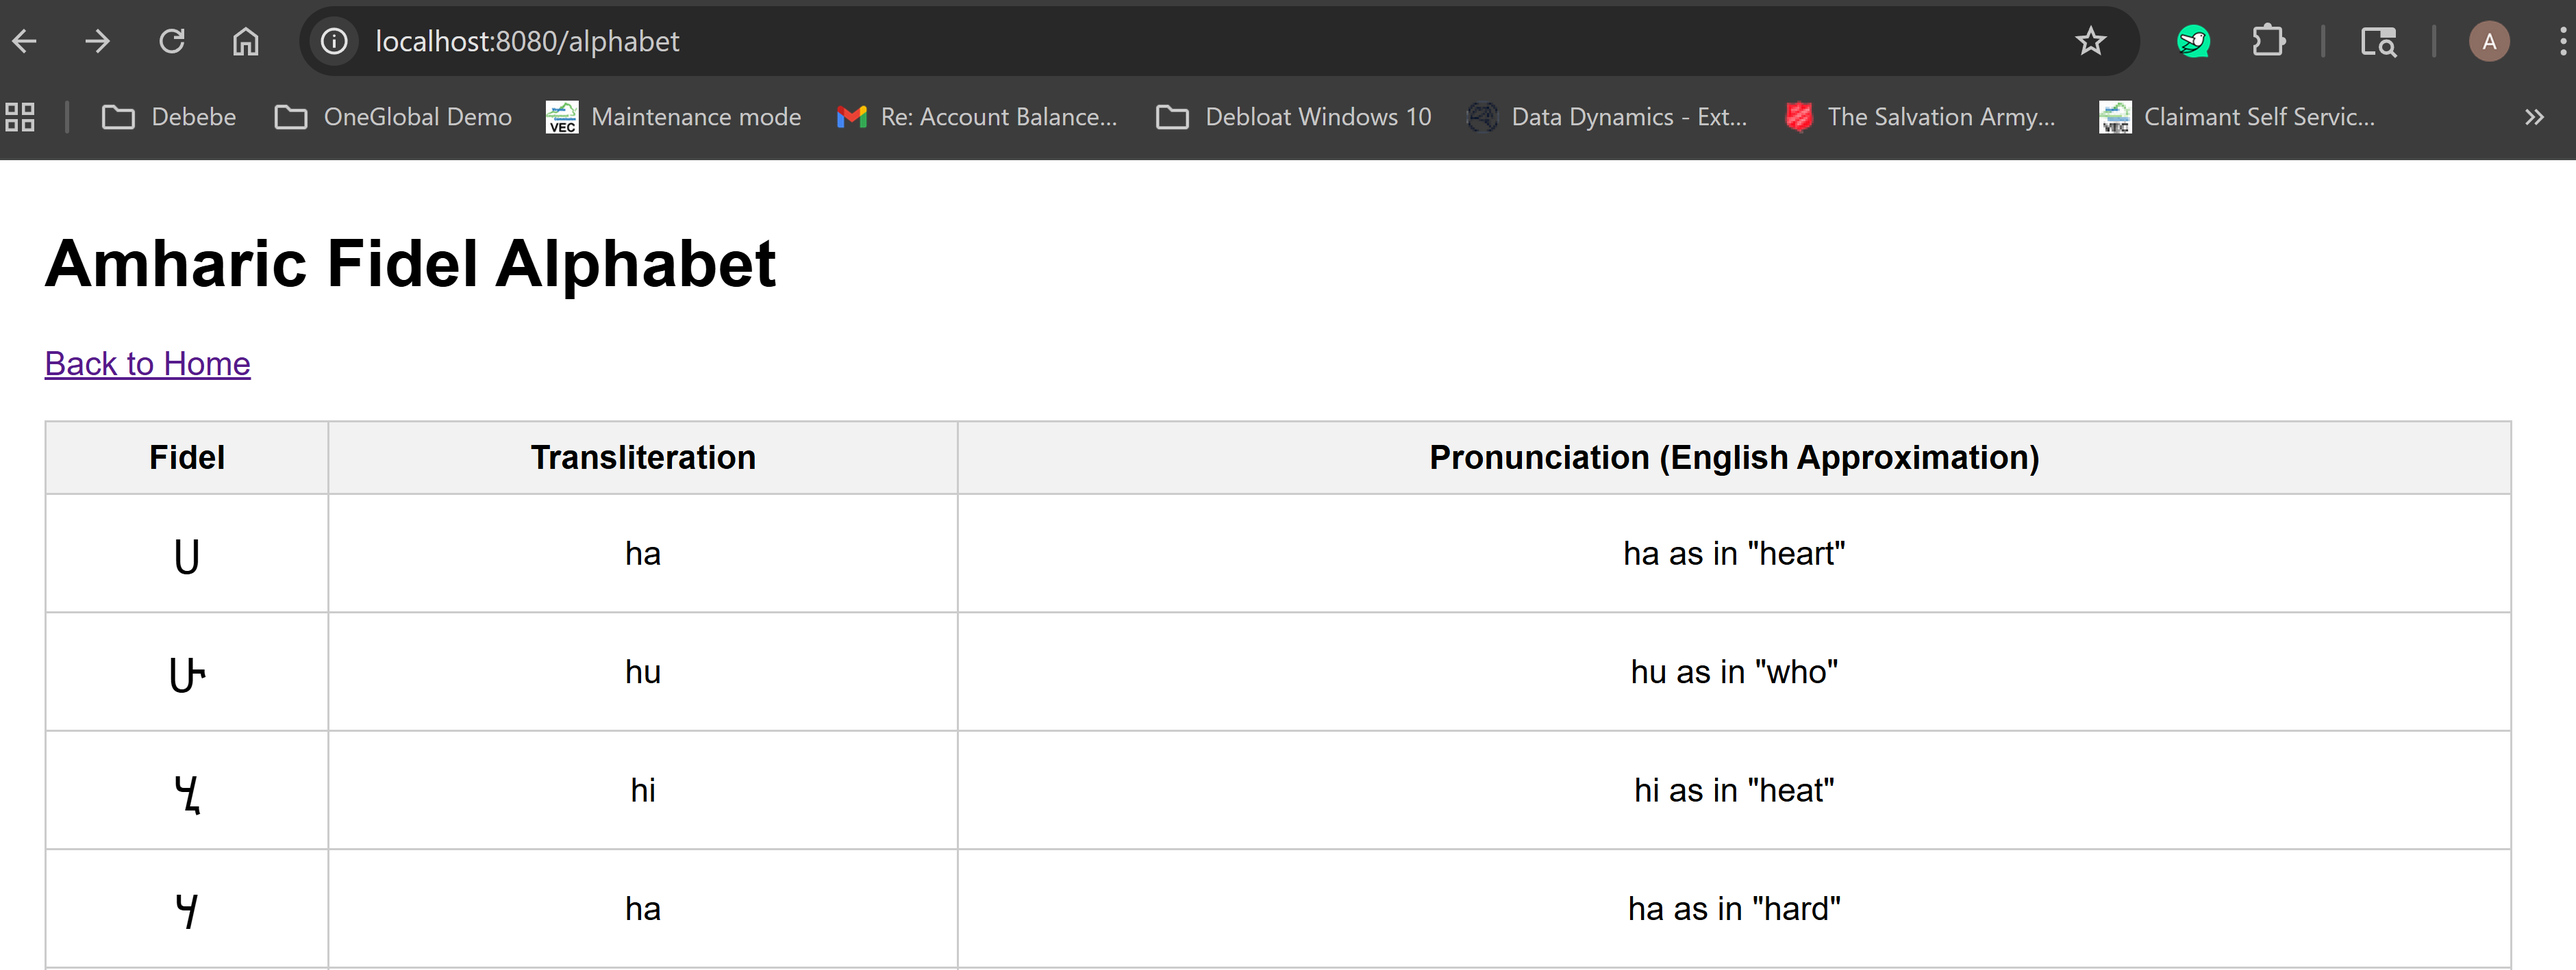
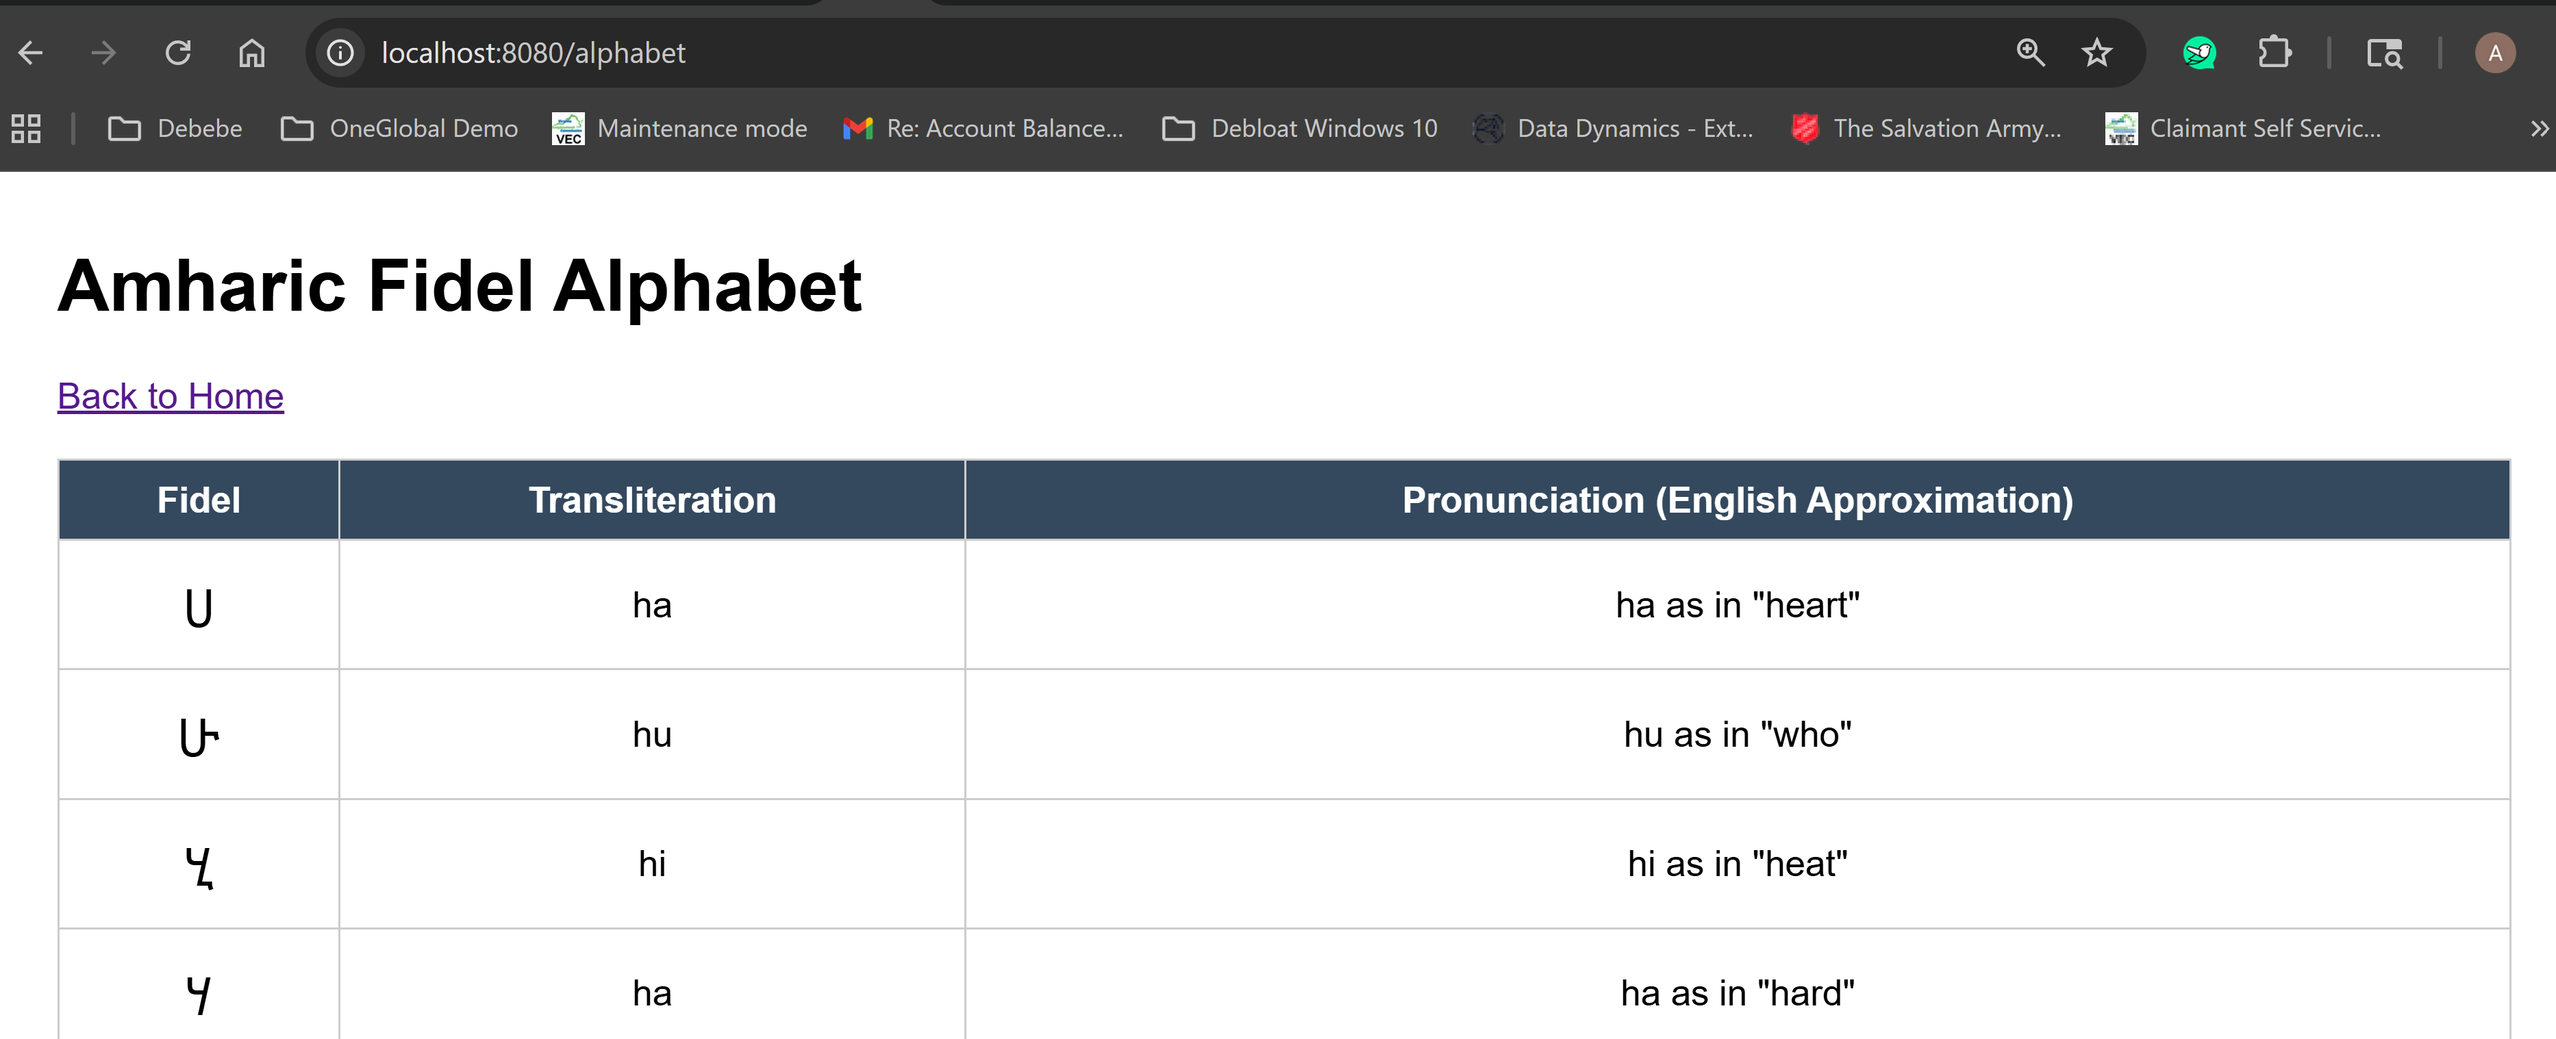
Updated README.md and added screenshots

diff --git a/src/main/resources/templates/alphabet.html b/src/main/resources/templates/alphabet.html
@@ -7,7 +7,7 @@
         body { font-family: sans-serif; margin: 2em; }
         table { border-collapse: collapse; width: 100%; }
         th, td { border: 1px solid #ccc; padding: 0.5em; text-align: center; }
-        th { background-color: #f2f2f2; }
+        th { color: white; background-color: #34495e; }
         .fidel { font-size: 1.5em; }
     </style>
 </head>
@@ -31,7 +31,7 @@
             <td th:text="${letter.pronunciation}">hä</td>
         </tr>
         <tr th:if="${iterStat.index % 7 == 6}">
-            <td colspan="3" style="background-color:#eee; height:10px;"></td>
+            <td colspan="3" style="background-color:#34495e; height:10px;"></td>
         </tr>
     </th:block>
     </tbody>

diff --git a/README.md b/README.md
@@ -134,7 +134,9 @@ To enable Gemini-powered Q&A functionality, you’ll need a valid API key from G
 ##  Screenshots:
    - ![Home page](https://github.com/adnewdebebe/amharic-tutor-springboot-thymeleaf-gemini-ai/master/docs/screenshots/home.png)
    - ![Alphabet page](https://github.com/adnewdebebe/amharic-tutor-springboot-thymeleaf-gemini-ai/master/docs/screenshots/alphabet.png)
-
+   - ![Phrases page](https://github.com/adnewdebebe/amharic-tutor-springboot-thymeleaf-gemini-ai/master/docs/screenshots/phrases.png)
+   - ![Facts page](https://github.com/adnewdebebe/amharic-tutor-springboot-thymeleaf-gemini-ai/master/docs/screenshots/facts.png)
+   - ![Ask page](https://github.com/adnewdebebe/amharic-tutor-springboot-thymeleaf-gemini-ai/master/docs/screenshots/ask.png)
 
 ## Run Locally
 
